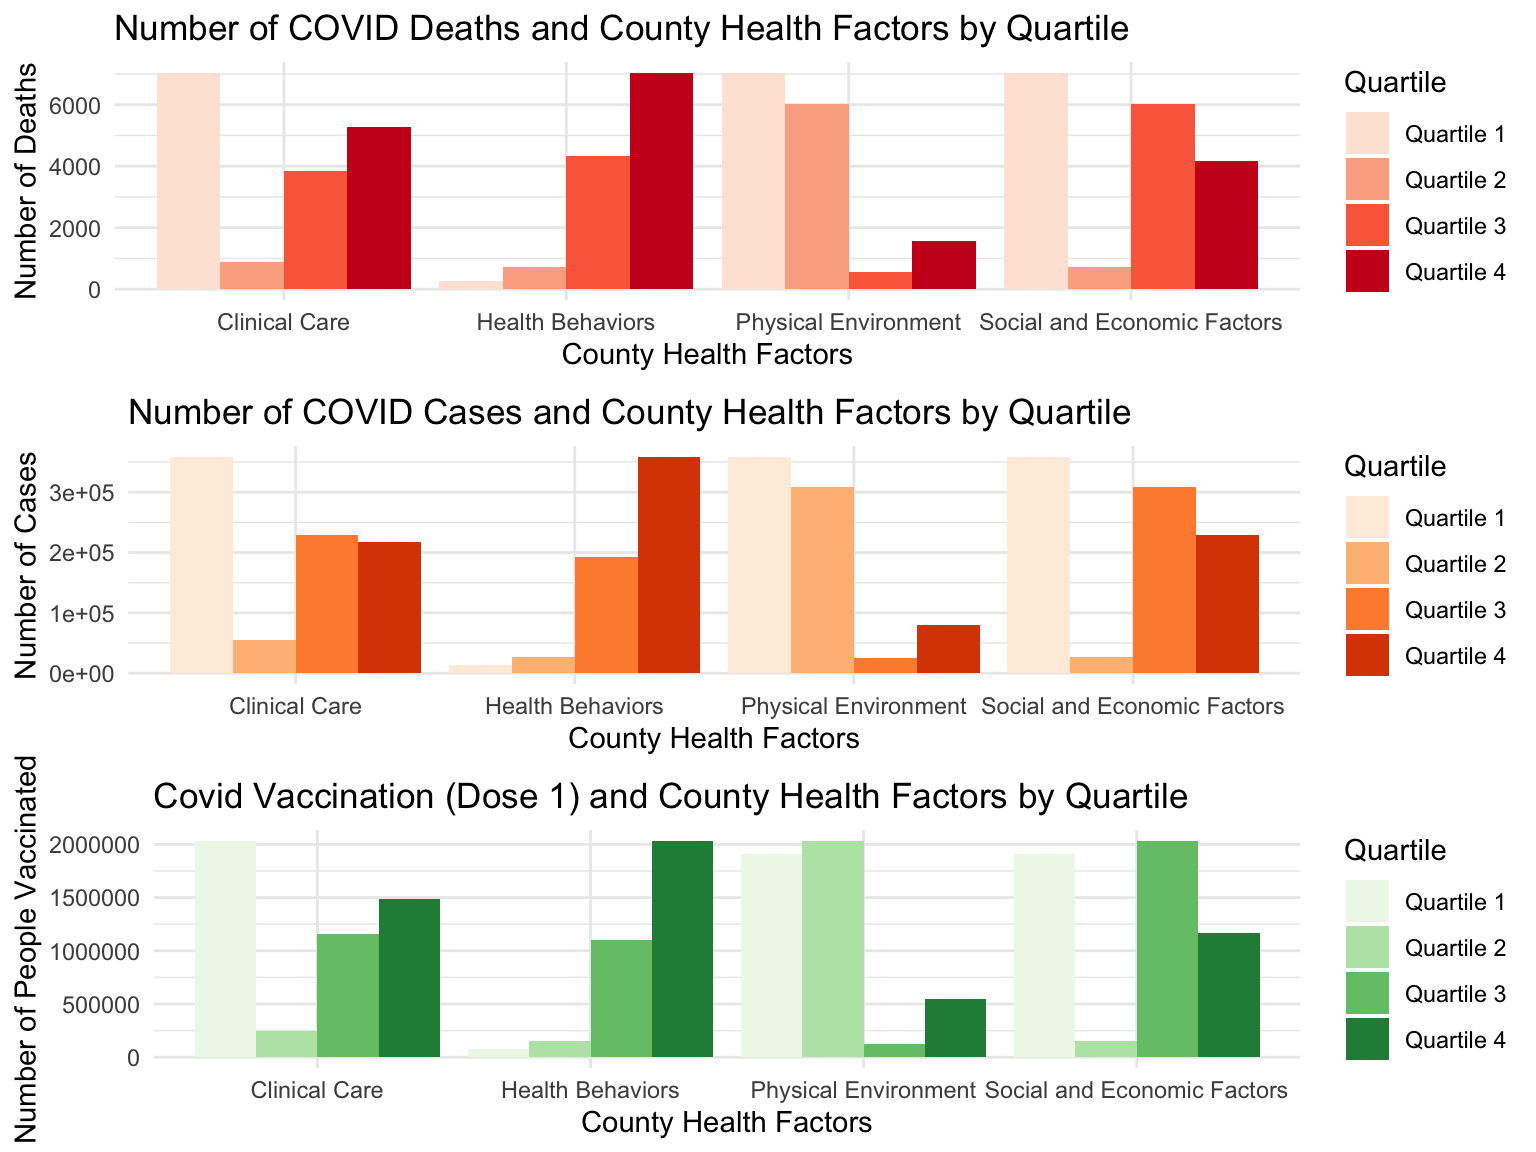
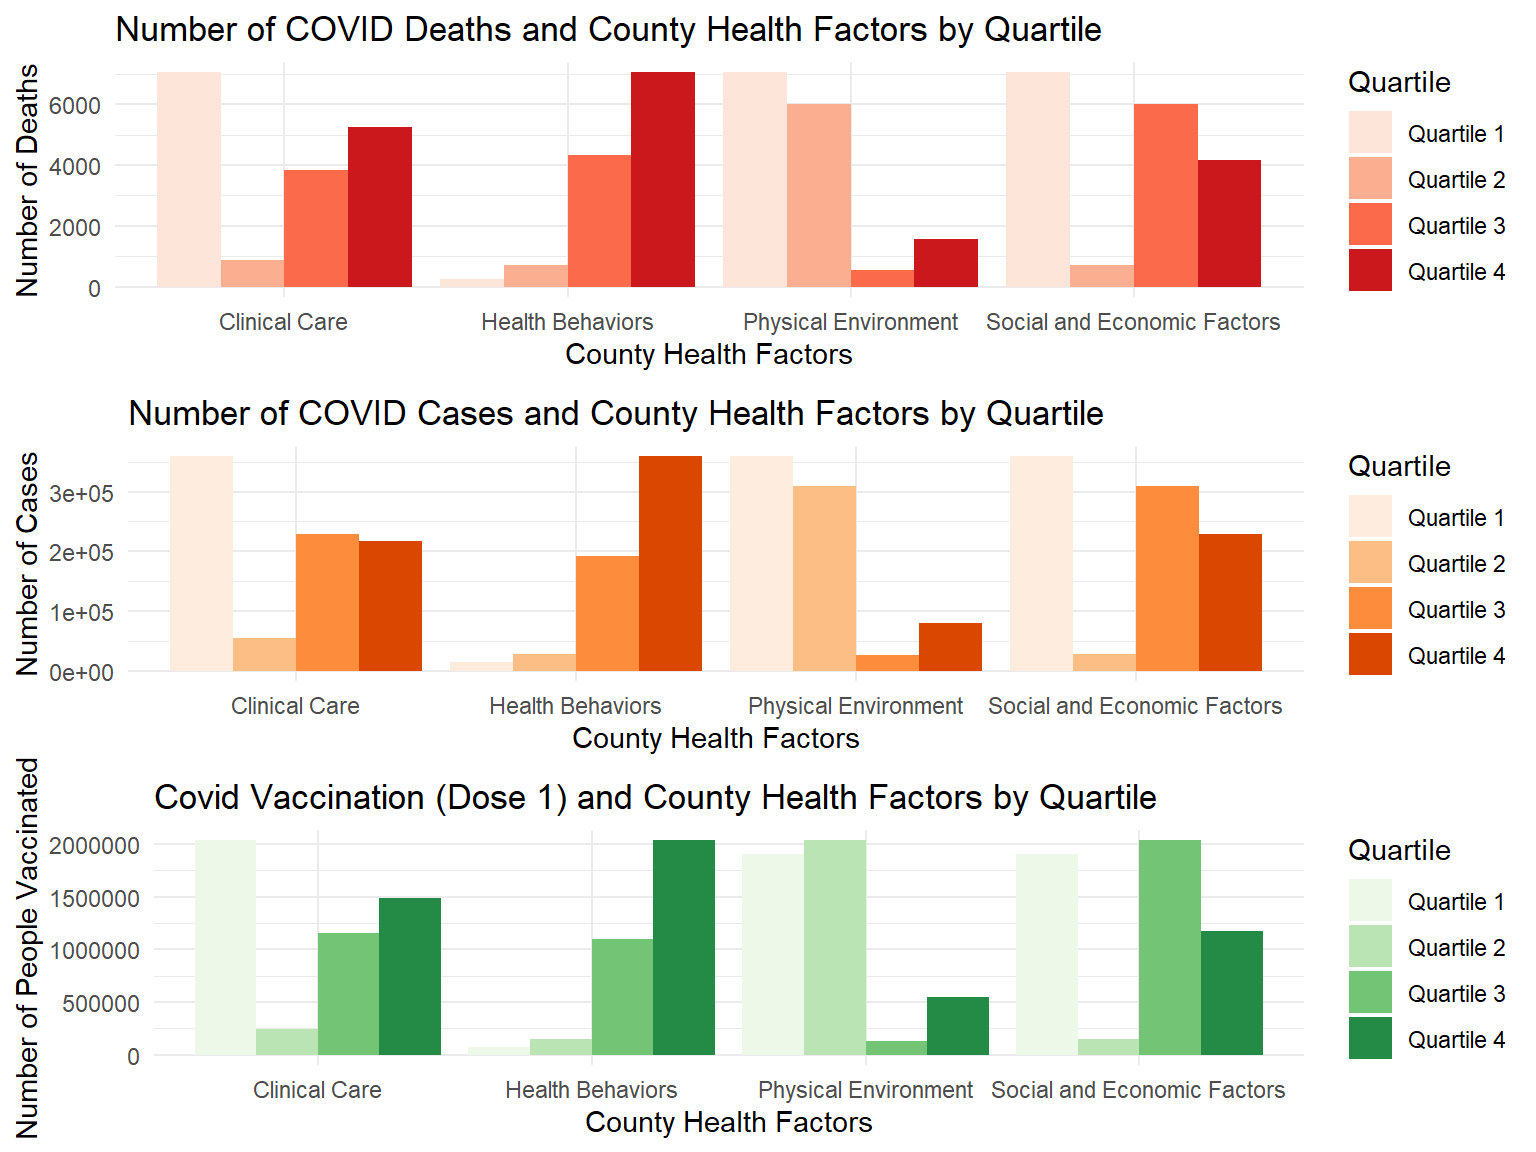
health factor EDA description

diff --git a/health_factor_eda.html b/health_factor_eda.html
@@ -11,9 +11,9 @@
 
 
 
-<title>EDA</title>
+<title>Health Factors EDA</title>
 
-<script src="site_libs/header-attrs-2.17/header-attrs.js"></script>
+<script src="site_libs/header-attrs-2.16/header-attrs.js"></script>
 <script src="site_libs/jquery-3.6.0/jquery-3.6.0.min.js"></script>
 <meta name="viewport" content="width=device-width, initial-scale=1" />
 <link href="site_libs/bootstrap-3.3.5/css/lumen.min.css" rel="stylesheet" />
@@ -184,8 +184,8 @@ $(document).ready(function () {
   border-radius: 4px;
 }
 
-.tabset-dropdown > .nav-tabs > li.active:before, .tabset-dropdown > .nav-tabs.nav-tabs-open:before {
-  content: "\e259";
+.tabset-dropdown > .nav-tabs > li.active:before {
+  content: "";
   font-family: 'Glyphicons Halflings';
   display: inline-block;
   padding: 10px;
@@ -193,9 +193,16 @@ $(document).ready(function () {
 }
 
 .tabset-dropdown > .nav-tabs.nav-tabs-open > li.active:before {
-  content: "\e258";
-  font-family: 'Glyphicons Halflings';
+  content: "&#xe258;";
   border: none;
+}
+
+.tabset-dropdown > .nav-tabs.nav-tabs-open:before {
+  content: "";
+  font-family: 'Glyphicons Halflings';
+  display: inline-block;
+  padding: 10px;
+  border-right: 1px solid #ddd;
 }
 
 .tabset-dropdown > .nav-tabs > li.active {
@@ -373,7 +380,7 @@ div.tocify {
 
 
 
-<h1 class="title toc-ignore">EDA</h1>
+<h1 class="title toc-ignore">Health Factors EDA</h1>
 
 </div>
 
@@ -703,25 +710,13 @@ p3 = ggplot(data=eda1, aes(x=rank_var, y=vax_dose1, fill=Quartile)) +
         x =&quot;County Health Factors&quot;, y = &quot;Number of People Vaccinated&quot;)
 
 grid.arrange(p1, p2, p3, ncol = 1)</code></pre>
-<p><img src="health_factor_eda_files/figure-html/unnamed-chunk-2-1.png" width="100%" />
-COVID Deaths Plot: The Clinical Care, Physical Environment, and Social
-and Economic Factors rankings all have Quartile 4 (the counties with the
-worst rankings) as the quartile with the highest number of deaths.
-However, it is the Health Behaviors ranking which has Quartile 1
-(counties with the best ranks) that have the highest number of
-deaths.</p>
-<p>COVID Here, we also see that Clinical Care, Physical Environment, and
-Social and Economic Factors rankings all have Quartile 4 (the counties
-with the worst rankings) as the quartile with the highest number of
-cases And again, it is the Health Behaviors ranking which has Quartile 1
-(counties with the best ranks) that have the highest number of
-cases.</p>
-<p>For the number of people with at least one dose of the COVID vaccine,
-the Health Behaviors ranking has Quartile 1 as the highest bar. This is
-expected as people who have positive health behaviors are more likely to
-also get a vaccine. For the other rankings, the results were not as
-expected. The Quartiles that have the worst rankings (Quartiles 3 and 4)
-have a majority of the number of people who got vaccinated.</p>
+<p><img src="health_factor_eda_files/figure-html/unnamed-chunk-2-1.png" width="100%" /></p>
+<p>From the results of the plots, we can see that there is a general
+pattern across all the COVID-19 outcomes (cases, deaths, and first dose
+of a vaccine) for the Health Behaviors Rankings. Counties with higher
+(worse) ranks show a higher number of cases, deaths, and first dose of
+vaccines. We will explore the variables that contribute to this pattern
+in our statistical analysis.</p>
 </div>
 
 
